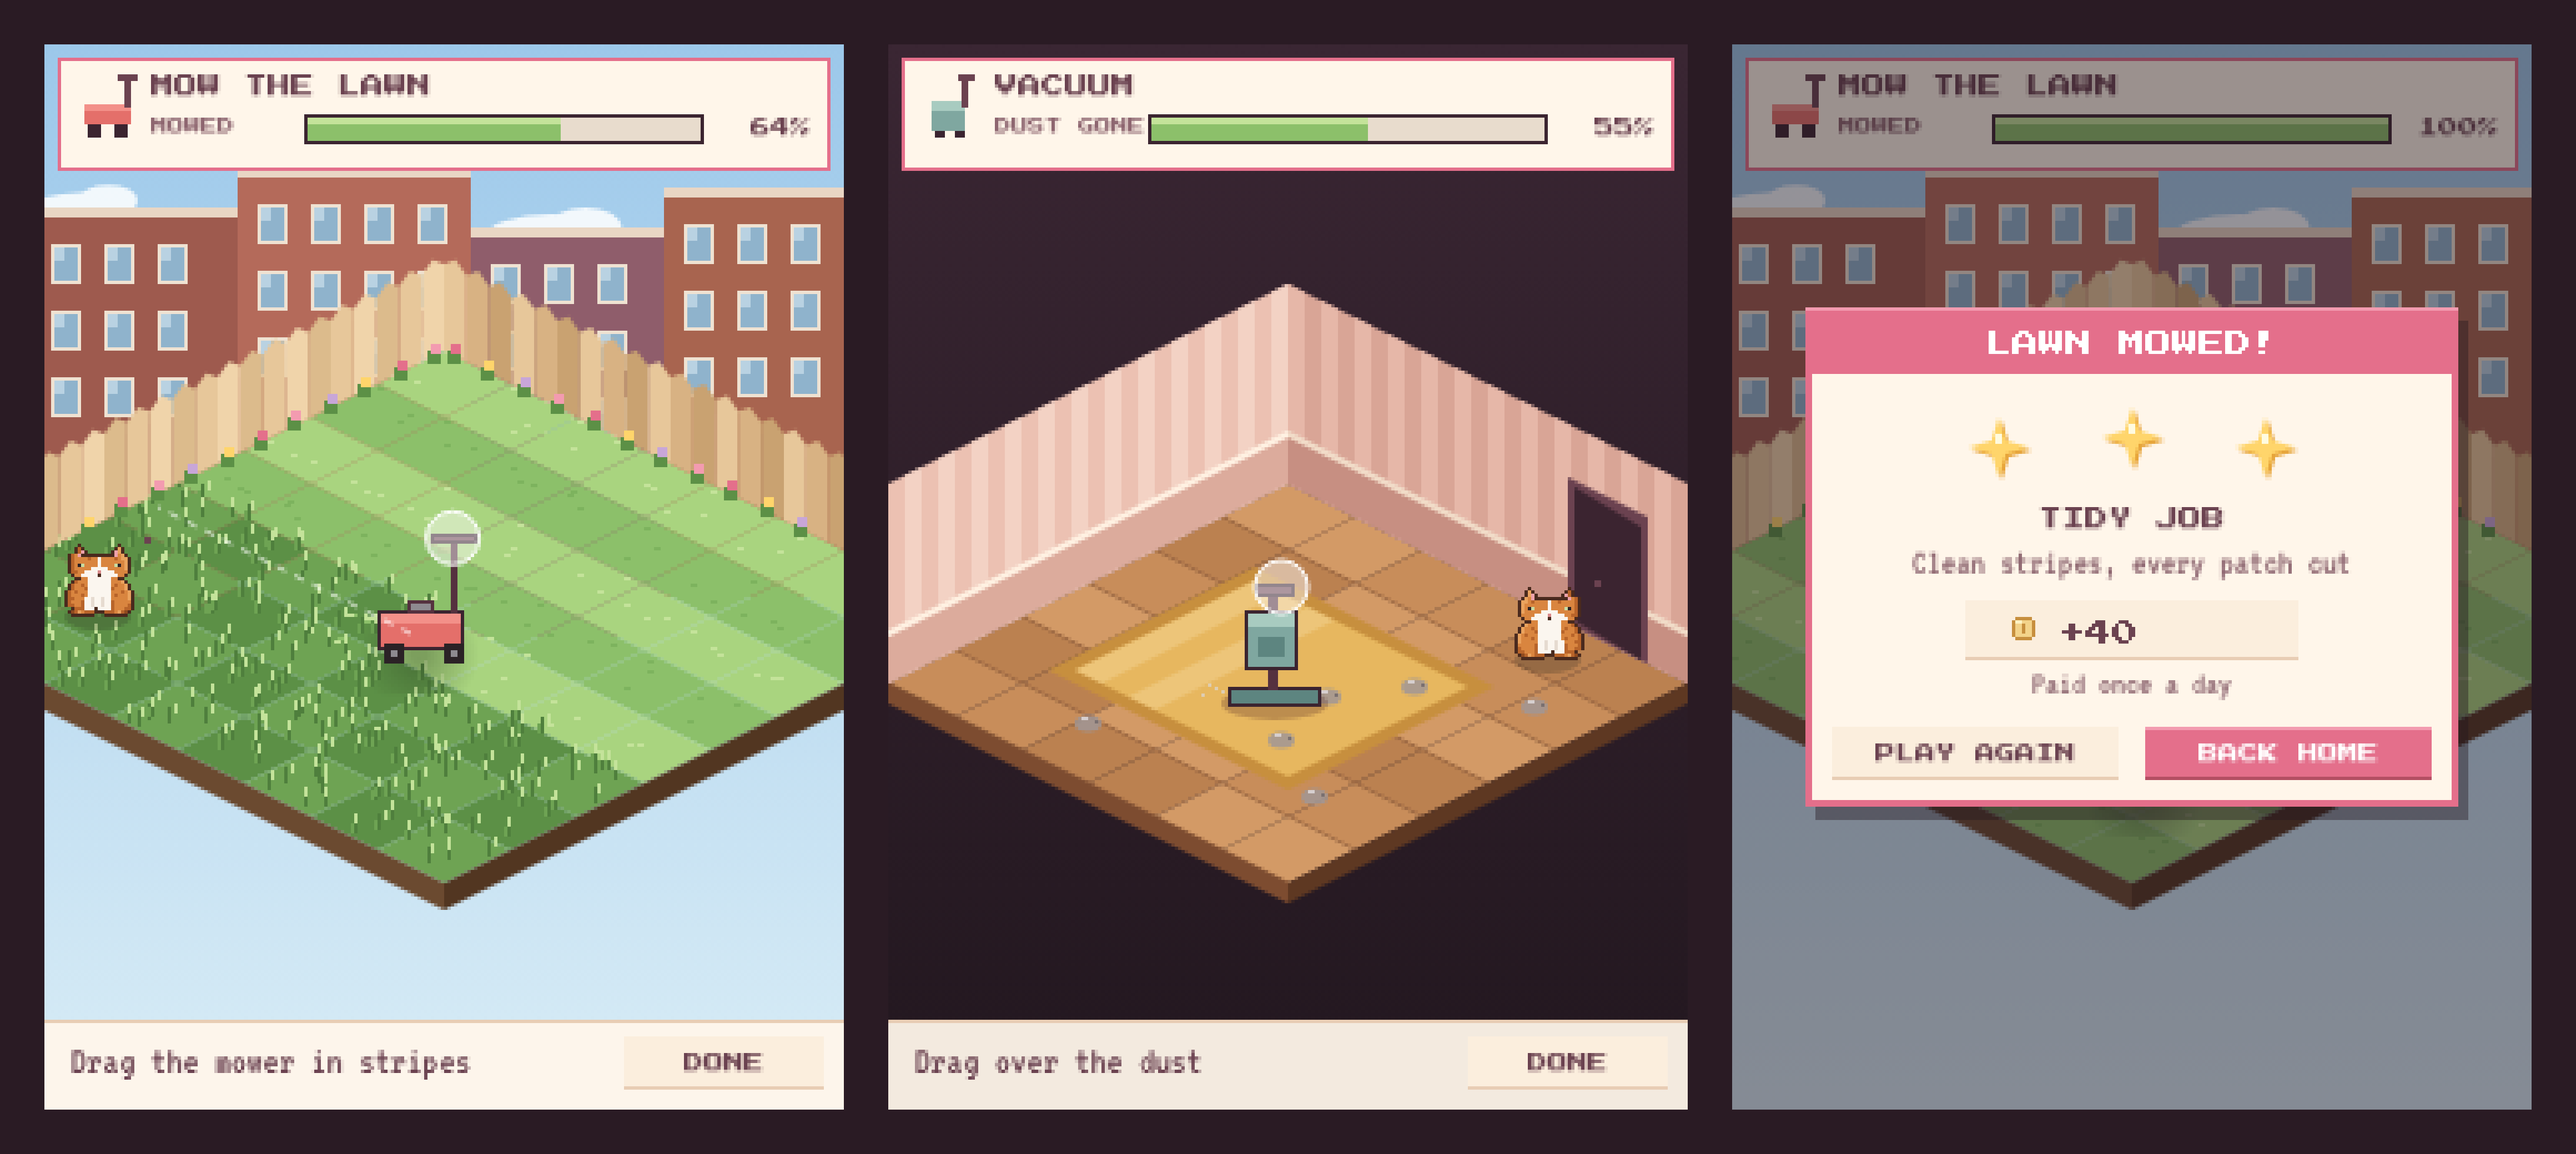
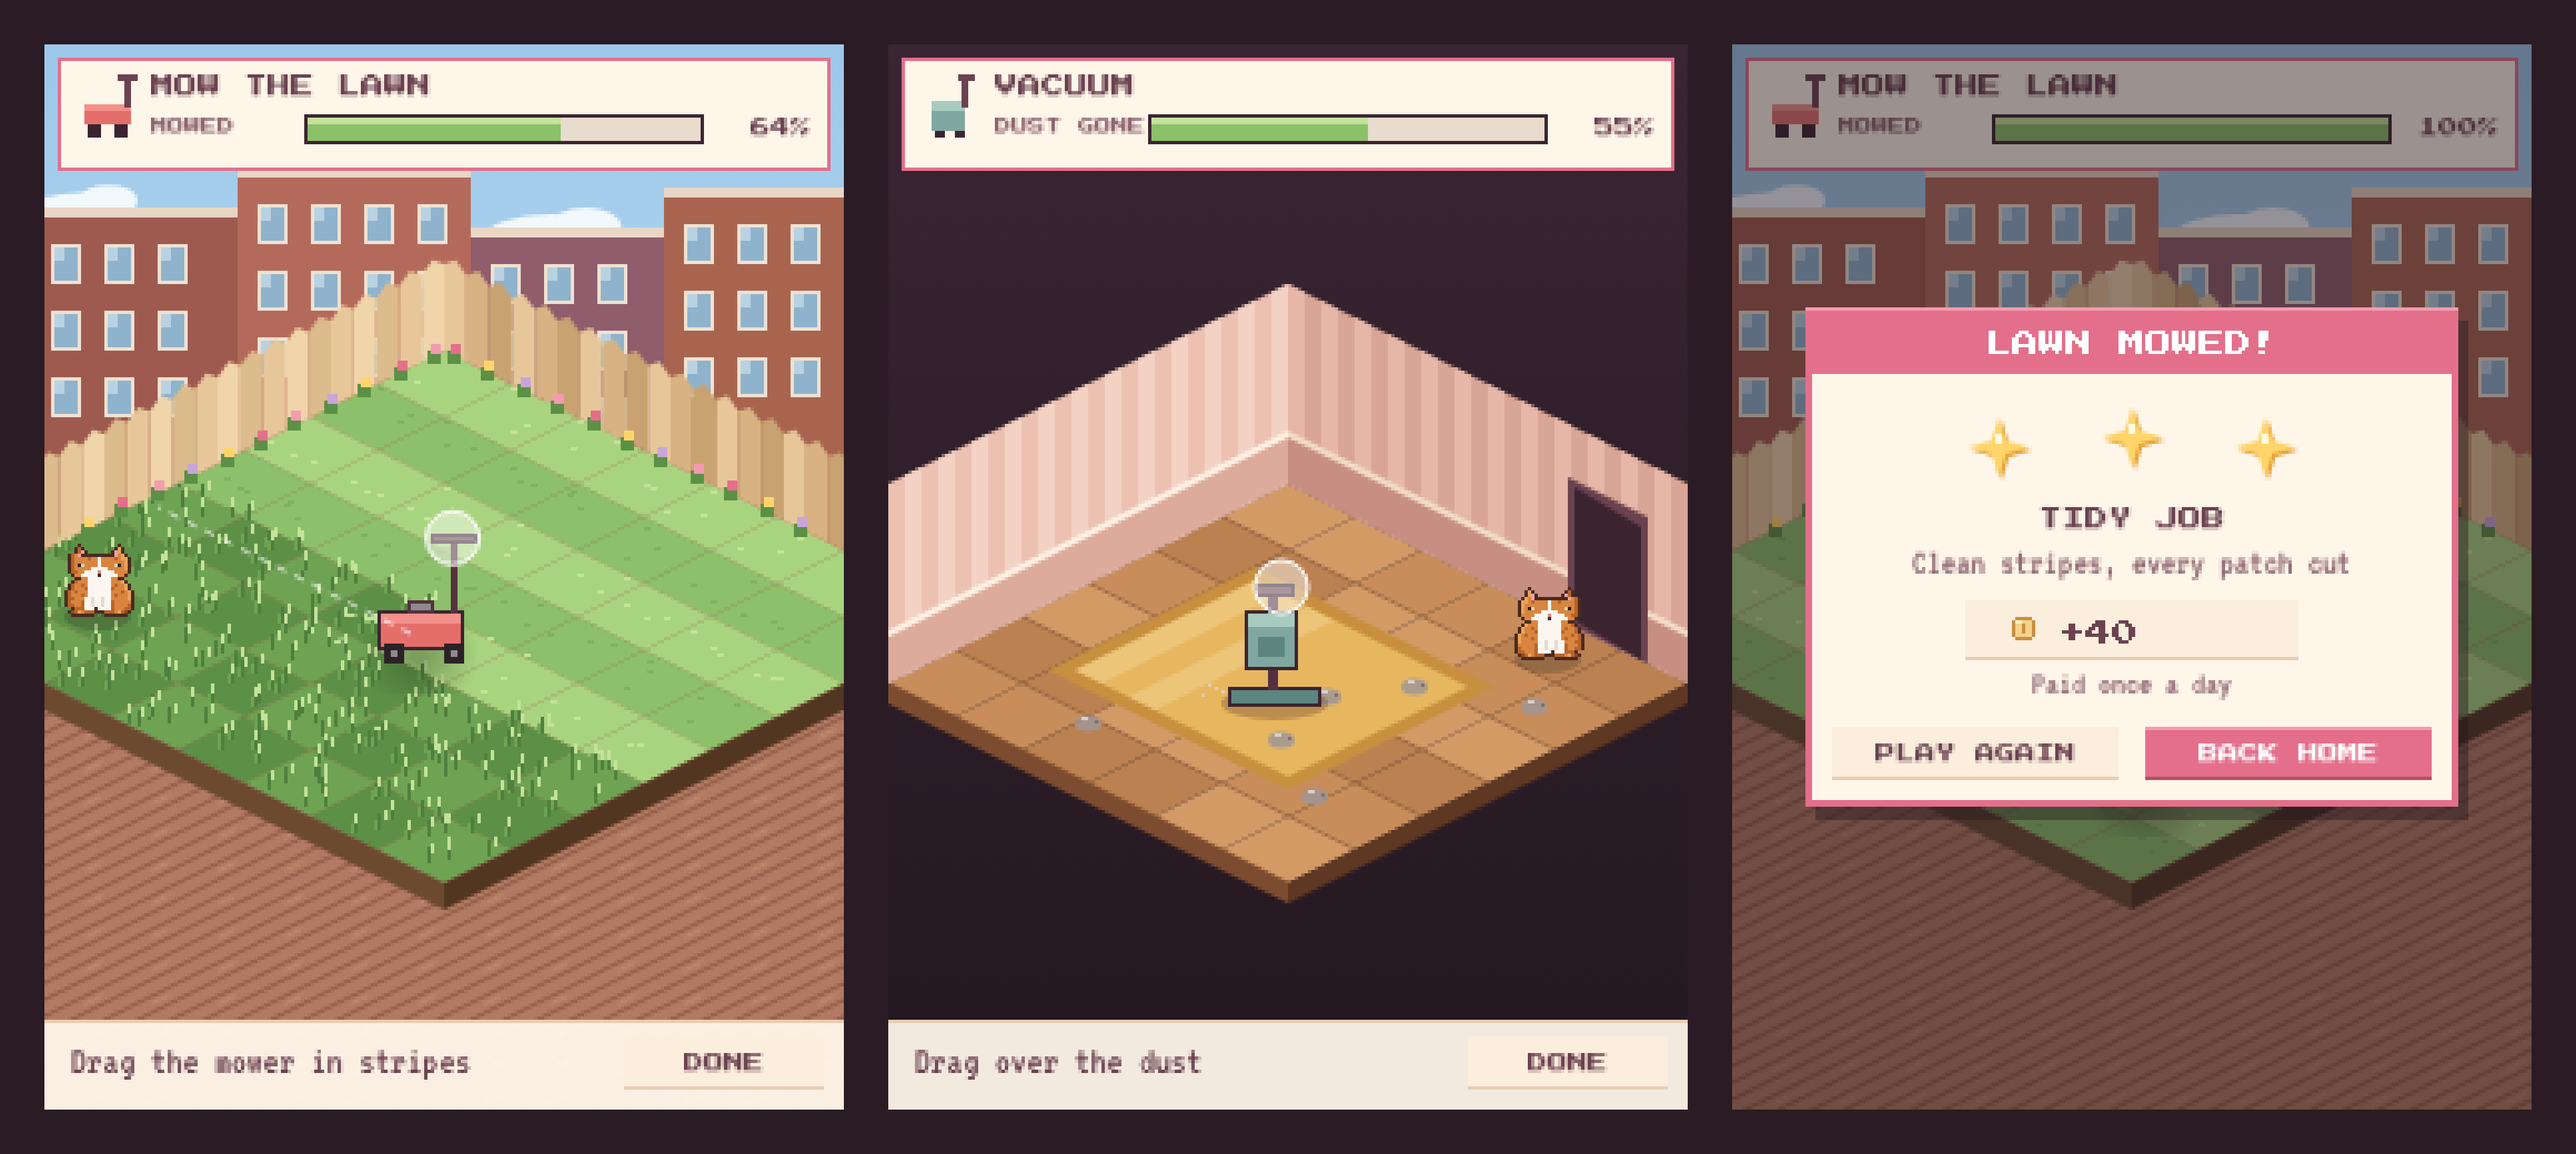
Sarah's Sim: yard and mowing mockups sit on brick paving; Ralph moved off the chair
Keegan's notes: the bistro chair seat read as a hat on Ralph, and the
yard looked like it floated in the sky. Ralph now sits clear of the
chairs, the floating dots over his head in the mowing shot are gone,
and both yards sit on a brick alley and sidewalk.

Claude-Session: https://claude.ai/code/session_019kG9BtZjtrUuyQHKgYVmkD

diff --git a/games/sarahs-sim/mockups/yard-v1.js b/games/sarahs-sim/mockups/yard-v1.js
@@ -67,6 +67,16 @@
     if (!WIN) { for (var e = 0; e < N; e += .5) { var p3 = iso(e, N); R(p3[0], p3[1] - 1, 2, 2, P.grass[3]); var p4 = iso(N, e); R(p4[0], p4[1] - 1, 2, 2, P.grass[2]); } }
     else { poly([D, C, [C[0], C[1] + 2], [D[0], D[1] + 2]], '#ffffff'); poly([B, C, [C[0], C[1] + 2], [B[0], B[1] + 2]], '#e8f0fa'); }
   }
+  function surround() { // the brick alley and sidewalk around the yard, so the yard sits on solid ground
+    var pts = [iso(0, 0), iso(30, 0), iso(30, 30), iso(-30, 30), iso(-30, N), iso(0, N)];
+    poly(pts, WIN ? '#e4ebf4' : '#b27a63');
+    c.save(); c.beginPath(); c.moveTo(pts[0][0], pts[0][1]); for (var i = 1; i < pts.length; i++) c.lineTo(pts[i][0], pts[i][1]); c.closePath(); c.clip();
+    var mortar = WIN ? 'rgba(170,185,210,.5)' : 'rgba(120,70,50,.55)';
+    for (var g = -30; g < 30; g += .5) { line(iso(g, -30), iso(g, 30), mortar); }
+    for (var h = -30; h < 30; h += 1) for (var k = -30; k < 30; k += 1) { if ((h + k) % 2) continue; var a = iso(k + .25, h + .5), b = iso(k + .25, h + 1); line(a, b, WIN ? 'rgba(255,255,255,.6)' : 'rgba(210,150,120,.45)'); }
+    c.restore();
+    if (WIN) for (var s = 0; s < 40; s++) { var p = iso(N + hash(s, 7) * 6, hash(7, s) * 14); R(p[0], p[1], 2, 1, '#ffffff'); }
+  }
   function patio(x0, y0, w, d) { // brick pavers in a basket weave
     for (var j = y0; j < y0 + d; j++) for (var i = x0; i < x0 + w; i++) {
       var a = iso(i, j), b = iso(i + 1, j), cc = iso(i + 1, j + 1), dd = iso(i, j + 1);
@@ -496,6 +506,7 @@
   window.drawYard = function (ctx, W, H, t, st) {
     st = st || 'seeds'; c = ctx; t = t || 0; WIN = st === 'winter';
     backdrop(W, H, t);
+    surround();
     house(t);
     fence(t);
     ground();
@@ -516,7 +527,7 @@
     }
     if (st === 'winter') { louieLoaf(iso(.55, 3.3)[0], iso(.55, 3.3)[1] - 6, t); }
     else { louieSit(iso(.4, 2.0)[0] + 2, iso(.4, 2.0)[1] - 5, false); }
-    if (!WIN) { var rp = iso(2.2, 4.0); ralphSit(rp[0], rp[1], true); }
+    if (!WIN) { var rp = iso(1.9, 5.6); ralphSit(rp[0], rp[1], true); }
     if (st !== 'winter') birdbath(8.3, 8.2, t); else greenhouse(6.6, 6.4, 3.0, 2.8, t);
     bed.apply(null, B3);
     if (!WIN) { plantAt(.9, 6.6, 'basil', 3, t); plantAt(.9, 7.5, 'strawberry', 3, t); plantAt(.9, 8.4, 'strawberry', 0, t, { col: '#e0384f' }); }

diff --git a/games/sarahs-sim/mockups/minigame-v1.js b/games/sarahs-sim/mockups/minigame-v1.js
@@ -78,9 +78,18 @@
     var rows = window.RALPH_SIT, pal = window.RALPH_PAL;
     for (var j = 0; j < rows.length; j++) for (var i = 0; i < rows[j].length; i++) { var ch = rows[j][i]; if (ch === '.' || !pal[ch]) continue; c.fillStyle = pal[ch]; c.fillRect(Math.round(px - 10 + (flip ? rows[j].length - 1 - i : i)), Math.round(py - rows.length + j), 1, 1); }
     // "slowly leaving": three tiny dots and footprints trailing
-    var dots = Math.floor(t / 2) % 4; for (var d = 0; d < dots; d++) R(px + 14 + d * 4, py - 24, 2, 2, '#6b4250');
   }
 
+  function alley() { // brick paving in front of the lawn, so the yard sits on solid ground
+    var pts = [iso(0, 0), iso(30, 0), iso(30, 30), iso(0, 30)];
+    poly(pts, '#b27a63');
+    c.save(); c.beginPath(); c.moveTo(pts[0][0], pts[0][1]); for (var i = 1; i < 4; i++) c.lineTo(pts[i][0], pts[i][1]); c.closePath(); c.clip();
+    c.strokeStyle = 'rgba(120,70,50,.55)';
+    for (var g = 0; g < 30; g += .25) { var a = iso(g, 0), b = iso(g, 30); c.beginPath(); c.moveTo(a[0], a[1]); c.lineTo(b[0], b[1]); c.stroke(); }
+    c.strokeStyle = 'rgba(210,150,120,.45)';
+    for (var h = 0; h < 30; h += .5) for (var k = 0; k < 30; k += .5) { if ((h * 2 + k * 2) % 2) continue; var p = iso(k + .12, h + .25), q = iso(k + .12, h + .5); c.beginPath(); c.moveTo(p[0], p[1]); c.lineTo(q[0], q[1]); c.stroke(); }
+    c.restore();
+  }
   function skyline(W, t) { // the backs of the next street's rowhouses and a few clouds
     [[30, 50, 16], [170, 58, 20]].forEach(function (cl, i) { var x = (cl[0] + t * .4 * (i + 1)) % (W + 40) - 20; c.fillStyle = 'rgba(255,255,255,.85)'; c.beginPath(); c.ellipse(x, cl[1], cl[2], cl[2] * .35, 0, 0, 7); c.ellipse(x + cl[2] * .5, cl[1] - 3, cl[2] * .55, cl[2] * .3, 0, 0, 7); c.fill(); });
     [[-4, 52, 62, '#9e5a4e'], [58, 40, 70, '#b46a5a'], [128, 58, 58, '#8f5d6b'], [186, 46, 62, '#a8644f']].forEach(function (b) {
@@ -147,6 +156,7 @@
       return;
     }
     N = 8; OY = 92; skyline(W, t);
+    alley();
     lawn(t, st === 'done');
     if (st === 'mow') {
       var r = iso(1.4, 6.6); ralphLeaving(r[0], r[1], t, true);
